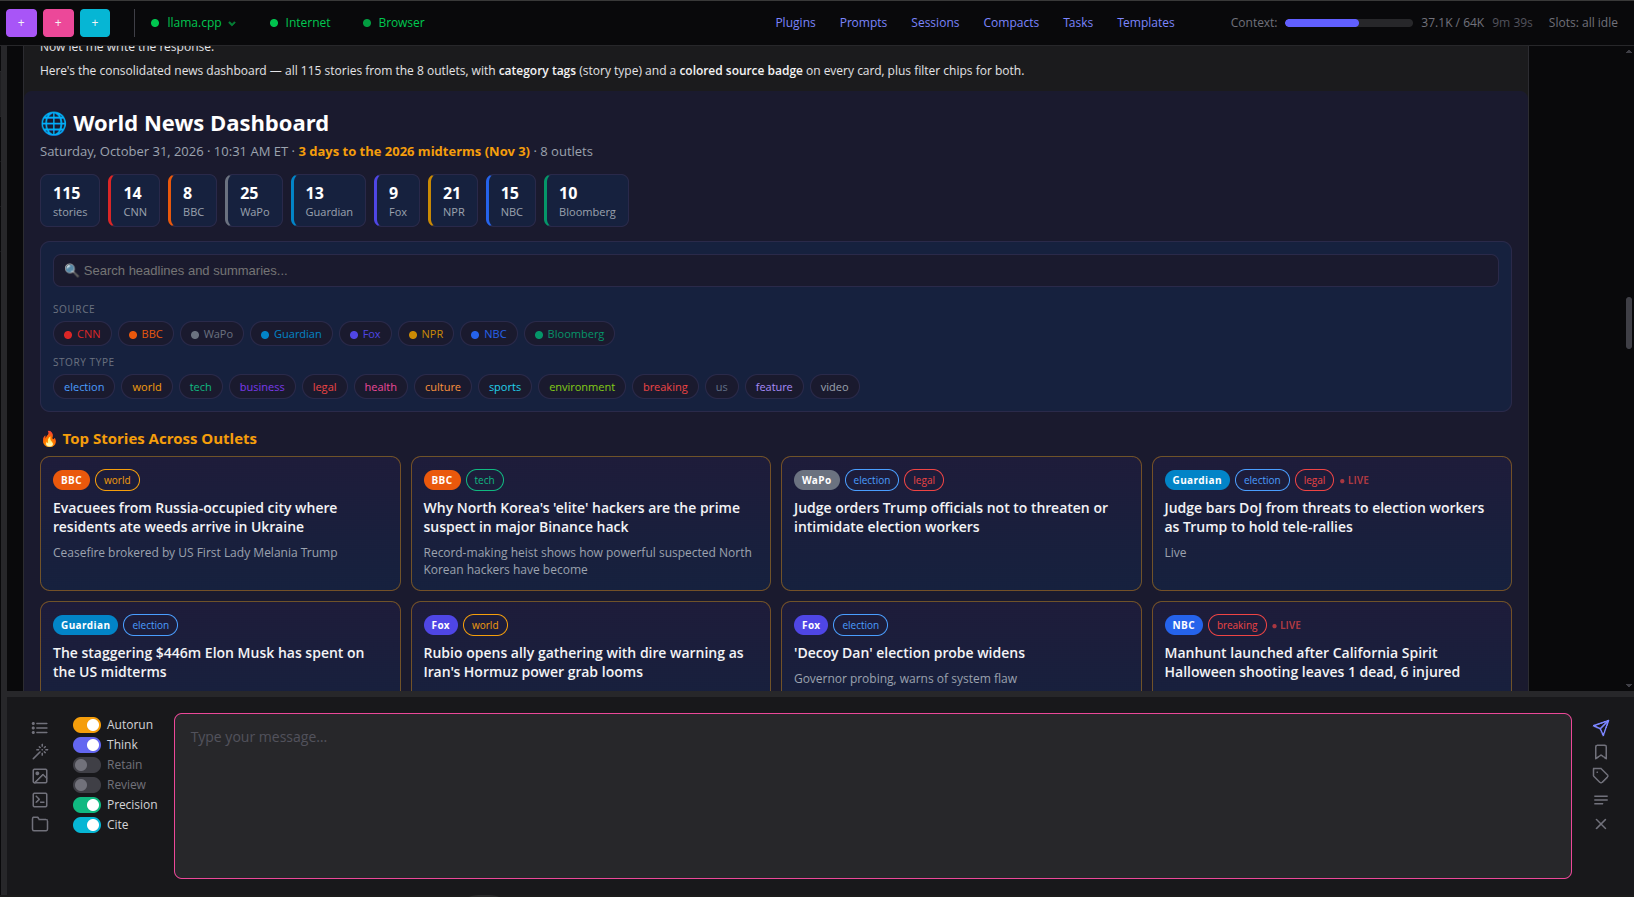
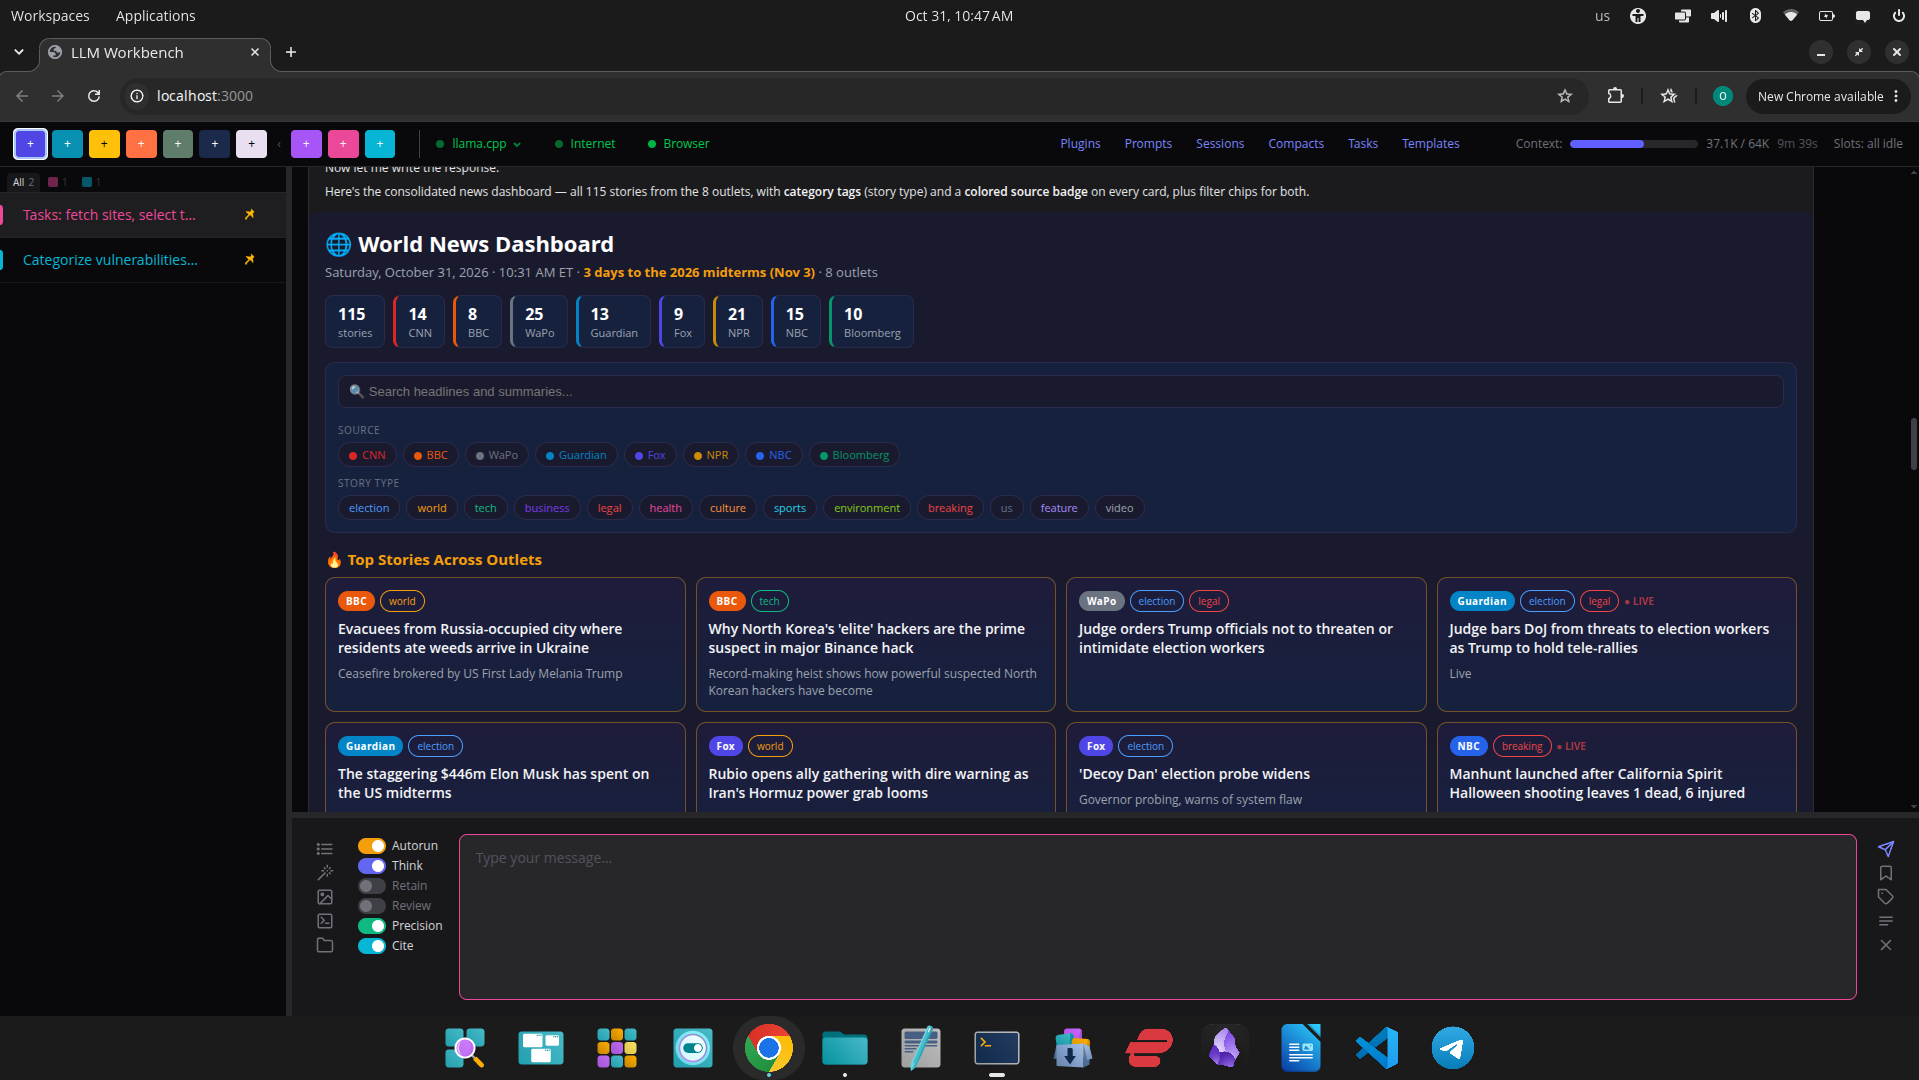
docs: README screenshot now shows the whole app around the news dashboard

diff --git a/README.md b/README.md
@@ -5,7 +5,7 @@
 ![lumispec.ai](Screenshot1.png)
 
 <p align="center">
-  <img src="Screenshot3.png" width="700" alt="World News Dashboard applet built from eight outlets fetched through Browser Search">
+  <img src="Screenshot3.png" width="700" alt="LLM Workbench showing the World News Dashboard applet built from eight outlets fetched through Browser Search">
   <br><sub>A task pipeline fetches eight outlets through Browser Search (<code>web_fetch</code> in a hidden tab of your own Chrome), and the model renders all 115 stories as an inline HTML applet with source badges, topic tags and filter chips.</sub>
 </p>
 
